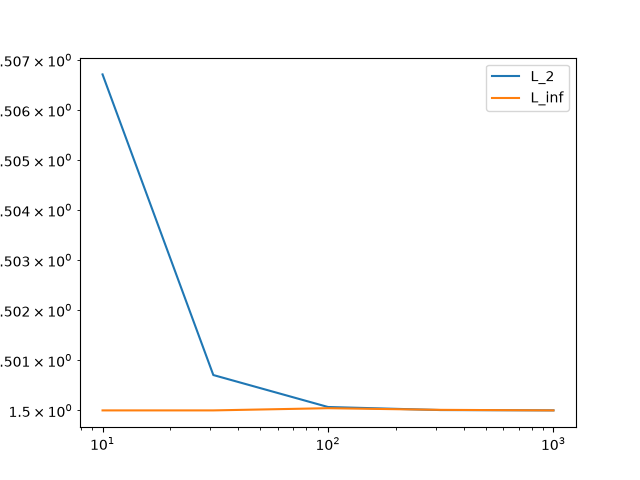
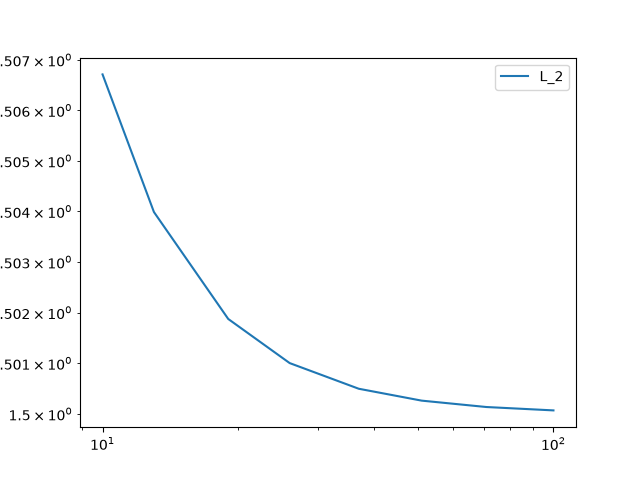
ran with some updates

diff --git a/Scripts/problem_0_4.py b/Scripts/problem_0_4.py
@@ -8,7 +8,7 @@ def u(x,y): # The exact solution
 def f(x,y): # The forcing function
     return -2*np.sin(y)*np.cos(x)
 
-def finiteDifferencePoisson(a, b, n, bc="dirichlet", returnGrid = True):
+def finiteDifferencePoisson(a, b, n, bc="dirichlet", returnGrid = True, spy=False, plot_name = "spy_plot.png", verbose=False):
     if bc == "neumann":
         # This method uses forward + backward differences to enforce the neumann conditions... this will mean the solution to the PDE will be O(h)
         # The Neumann boundary solver is not intended to be used wtih large matricies.
@@ -46,7 +46,8 @@ def finiteDifferencePoisson(a, b, n, bc="dirichlet", returnGrid = True):
                     A[k,k] = -4/h**2
                     A[k,k+1] = 1/h**2
                     A[k,k+n] = 1/h**2
-        print(f"the condition number of A is {np.linalg.cond(A.toarray())}")
+        if verbose:
+            print(f"the condition number of A is {np.linalg.cond(A.toarray())}")
     else:
         A = sp.lil_array((n**2,n**2))
         h = (b-a)/(n-1)
@@ -55,7 +56,8 @@ def finiteDifferencePoisson(a, b, n, bc="dirichlet", returnGrid = True):
         xx, yy = np.meshgrid(x,y)
         b_hat_inter = f(xx,yy)
         b_hat = b_hat_inter.reshape((n**2,))
-        print("Defining Linear System...")
+        if verbose:
+            print("Defining Linear System...")
         for i in range(n):
             for j in range(n):
                 k = n*i+j
@@ -81,16 +83,21 @@ def finiteDifferencePoisson(a, b, n, bc="dirichlet", returnGrid = True):
                     A[k,k+n] = 1/h**2
 
     # Solve the system
-    print("Linear System Defined, Solving...")
-    u_approx = sp.linalg.spsolve(A.tocsr(), b_hat)
-    print("Solution Found")
+    if verbose:
+        print("Linear System Defined, Solving...")
+    u_approx = sp.linalg.spsolve(A.tocsc(), b_hat)
+    if verbose:
+        print("Solution Found")
     # Reshape outputs so they are good for plotting
+    if spy:
+        plt.spy(A)
+        plt.savefig(plot_name)
     if returnGrid:
         u_approx = u_approx.reshape((n,n))
     return xx, yy, u_approx
 
 def rel_error(a, b, n):
-    xx, yy, f_approx = finiteDifferencePoisson(a,b,n, returnGrid = False)
+    xx, yy, f_approx = finiteDifferencePoisson(a,b,n, returnGrid = False, verbose=True)
     f_exact = f(xx, yy).reshape((n**2,)) # get the analytical solution
     L_2_error = np.linalg.norm(f_exact-f_approx)/np.linalg.norm(f_exact)
     L_inf_error = np.linalg.norm(f_exact-f_approx,ord=np.inf)/np.linalg.norm(f_exact,ord=np.inf)
@@ -99,10 +106,10 @@ def rel_error(a, b, n):
 def main():
     a = 0
     b = 5
-    n = 40
+    n = 20
 
     # Get the numerical solution
-    xx,yy,u_approx = finiteDifferencePoisson(a, b, n)
+    xx,yy,u_approx = finiteDifferencePoisson(a, b, n, spy=True, plot_name = "Images\\problem4_spy.png")
 
     # Get the exact solution
     u_exact = u(xx,yy)
@@ -123,17 +130,28 @@ def main():
     ax2.set_title("Exact Solution")
     plt.savefig("Images\\problem4_2.png")
 
+    erplt = plt.figure(6)
+    erax = plt.axes(projection='3d')
+    erax.plot_surface(xx,yy,np.abs(u_approx-u_exact))
+    erax.set_xlabel("x")
+    erax.set_ylabel("y")
+    erax.set_title("absolute error")
+    plt.savefig("Images\\problem4_error.png")
+
     num_trials = 8
-    meshes = np.floor(np.logspace(1, 4, num_trials)).astype(int)
+    meshes = np.floor(np.logspace(1, 2, num_trials)).astype(int)
     L_2 = np.zeros(num_trials)
     L_inf = np.zeros(num_trials)
     for i in range(num_trials):
         print(f"Simulating mesh with {meshes[i]**2} nodes")
         L_2[i], L_inf[i] = rel_error(a, b, meshes[i]) #calculate relative errors for increasingly finer meshes.
 
-    plt.figure(3)
-    plt.loglog(meshes, L_2, label = "L_2")
-    plt.loglog(meshes, L_inf, label = "L_inf")
+    fig3 = plt.figure(3)
+    ax3 = plt.axes()
+    plt.plot(meshes, L_2, label = "L_2")
+#    plt.loglog(meshes, L_inf, label = "L_inf")
+    ax3.set_xscale('log')
+    ax3.set_yscale('log')
     plt.legend()
     plt.savefig('Images\\problem4_3.png')
 
